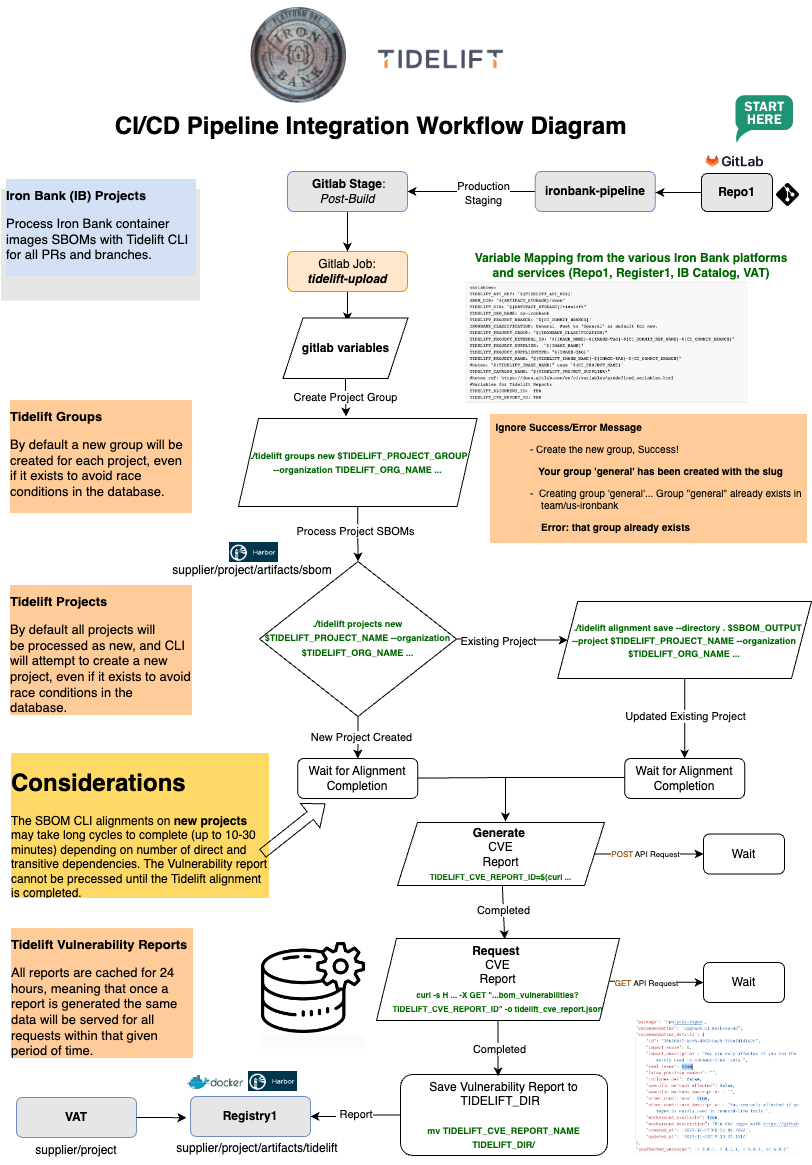
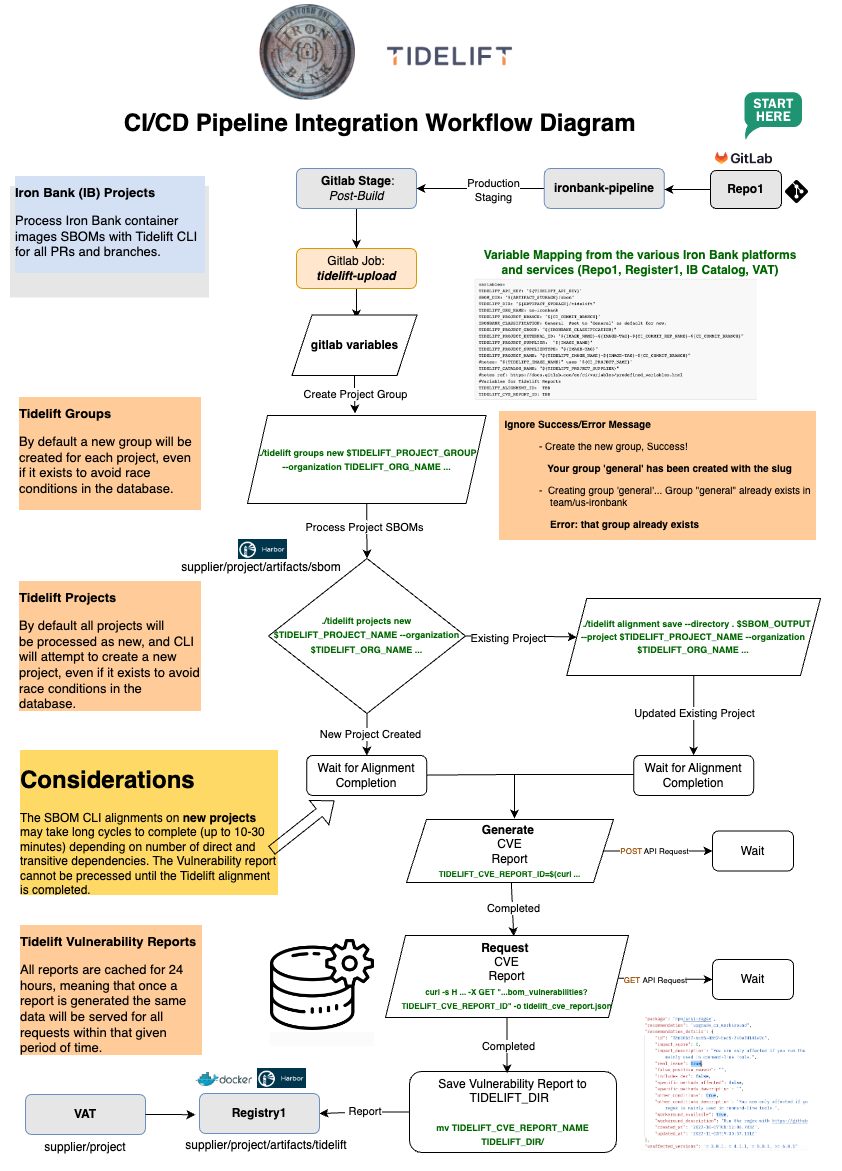
cli vulnerability report

Changed region(s): [[0.0, 0.0, 1.0, 1.0], [0.4618, 0.0309, 0.6158, 0.0618]]

diff --git a/stages/post-build/tidelift/Tidelift_Integration_Objective.md b/stages/post-build/tidelift/Tidelift_Integration_Objective.md
@@ -37,8 +37,10 @@ Once the conctainer image SBOM is processed by Tidelift, the Iron Bank teams (VA
 A project naming convention has been established with Iron Bank and Tidelift for project referencing and alignment. The Iron Bank catalog services such as Repo1, Registry1, IB Catalog, and VAT, all have different information architecture for the projects. As a result, to normalize the supplier name, project type (group), project name, branch name, with Iron Bank and Tidelift have agreed on the following mapping:
 
 * Tidelift Catalog Name: by Supplier Name (ie. Red Hat)
-* Tidelift Project Name: project-name+tagnumber+branch-name 
+* Tidelift Project Name: SupplerName-project-name 
 * Tidelift External Prj Identifier: SupplierName/SubGroup/projectname/tagnumber/
+* Tidelift Project Revision: Unique Identifier - recommendation 
+``${CI_COMMIT_SHA}:${CI_JOB_ID}:$(date --iso-8601=minutes) ==> {CI_JOB_ID}``
 * Tidelift Default branch: gitlab project branch name
 * Tidelift Group: Iron Bank Core, default to "general"
 
@@ -46,27 +48,23 @@ A project naming convention has been established with Iron Bank and Tidelift for
 
 ```
 variables:
-TIDELIFT_API_KEY: "${TIDELIFT_API_KEY}"
-SBOM_DIR: "${ARTIFACT_STORAGE}/sbom"
-TIDELIFT_DIR: "${ARTIFACT_STORAGE}/tidelift"
-TIDELIFT_ORG_NAME: us-ironbank
-TIDELIFT_PROJECT_BRANCH: "${CI_COMMIT_BRANCH}"
-#set IB Tier Group to "General" as default for now. 
-IRONBANK_CLASSIFICATION: General  
-TIDELIFT_PROJECT_GROUP: "${IRONBANK_CLASSIFICATION}" 
-TIDELIFT_PROJECT_EXTERNAL_ID: "${IMAGE_NAME}-${IMAGE_TAG}-${CI_COMMIT_REF_NAME}"
- SupplierName/SubGroup/projectname/tagnumber/branch/
-#parse the supplier name from "${IMAGE_NAME}" string 
-TIDELIFT_PROJECT_SUPPLIER:  "${IMAGE_NAME}" 
-TIDELIFT_PROJECT_SUPPLIERTYPE: "${IMAGE-TAG}"
-TIDELIFT_PROJECT_NAME: "${TIDELIFT_IMAGE_NAME}-${IMAGE_TAG}-${CI_COMMIT_BRANCH}"  
-#notes: "${TIDELIFT_IMAGE_NAME}" uses "${CI_PROJECT_NAME}"
-TIDELIFT_CATALOG_NAME: "${TIDELIFT_PROJECT_SUPPLIER}"
-#notes ref: https://docs.gitlab.com/ee/ci/variables/predefined_variables.html 
-#Variables for Tidelift Reports
-TIDELIFT_ALIGNMENT_ID:  TBD
-TIDELIFT_CVE_REPORT_ID: TBD
-TIDELIFT_CVE_REPORT_NAME:  "${TIDELIFT_PROJECT_EXTERNAL_ID}_tidelift_cve_report.json"
+    TIDELIFT_API_KEY: "${TIDELIFT_API_KEY}"
+    SBOM_DIR: "${ARTIFACT_STORAGE}/sbom" 
+    TIDELIFT_DIR: "${ARTIFACT_STORAGE}/tidelift"
+    TIDELIFT_ORG_NAME: us-ironbank
+    TIDELIFT_PROJECT_BRANCH: "${CI_COMMIT_BRANCH}"
+    #set IB Tier Group to "General" as default for now. 
+    IRONBANK_CLASSIFICATION: General  
+    TIDELIFT_PROJECT_GROUP: "${IRONBANK_CLASSIFICATION}" 
+    IRONBANK_IMAGE_NAME: "${IMAGE_NAME}"
+    TIDELIFT_PROJECT_TAG: "${IMAGE_VERSION}"
+    #TIDELIFT_PROJECT_REVISION: "${CI_COMMIT_SHA}"
+    TIDELIFT_PROJECT_REVISION: ""
+    TIDELIFT_PROJECT_NAME: ""  
+    TIDELIFT_PROJECT_EXTERNAL_ID: ""
+    TIDELIFT_CATALOG: "ibtest"
+    TIDELIFT_PROJECT_SUPPLIER: ""
+    TIDELIFT_PROJECT_SUPPLIER_TYPE: ""
 ```
 
 
@@ -83,8 +81,10 @@ The Tidelift integration point is through the `post-build` stage, where a the`ti
 Tidelift CLI Docs
 [https://support.tidelift.com/hc/en-us/articles/4406293613588-Tidelift-CLI-reference#tidelift-cli-reference-0-0](https://support.tidelift.com/hc/en-us/articles/4406293613588-Tidelift-CLI-reference#tidelift-cli-reference-0-0)
 
-Once the Tiedelift CLI SBOM alignment is completed for the project, a Vulnerability report will be generated and requested for the project from the IB `tidelift-upload` pipeline job using the Tidelift Reports APIs (`bom_vulnerabilities`).
+Once the Tiedelift CLI SBOM alignment is completed for each project, branch, tag, git commit, a Vulnerability report will be generated by the CLI `alignment save --json --wait`, the response from the CLI will be saved to JSON file (``cve_report.json``) that will be saved in the respective Iron Bank container image artifacts folder within registry1, path ```TIDELIFT_DIR: "${ARTIFACT_STORAGE}/tidelift"`.
 
+
+Alternatively, the Tidelift APIs bom_vulnerability report could be requested for the specific project (not yet available). 
 Tidelift Reports API Docs
 [https://api.tidelift.com/docs/#tag/Reports](https://api.tidelift.com/docs/#tag/Reports)
 
@@ -92,9 +92,11 @@ For a complete Tidelift `ironbank-pipleine` network architecture integration wor
 
  ![image info](tidelift_workflow.png)
  
+ ![image info](tidelift_workflow2.png)
+ 
+ ![image info](tidelift_workflow3.png)
 
-
-### Pipeline Container Image Details 
+### CI Gitlab Pipeline Container Image Details 
 `NAME="Red Hat Enterprise Linux"
 VERSION="9.3 (Plow)"
 ID="rhel"
@@ -113,9 +115,3 @@ REDHAT_BUGZILLA_PRODUCT_VERSION=9.3
 REDHAT_SUPPORT_PRODUCT="Red Hat Enterprise Linux"
 REDHAT_SUPPORT_PRODUCT_VERSION="9.3"
 `
-
-### TLDR
-``
-NAME="Red Hat Enterprise Linux"
-VERSION="9.3 (Plow)"
-``
